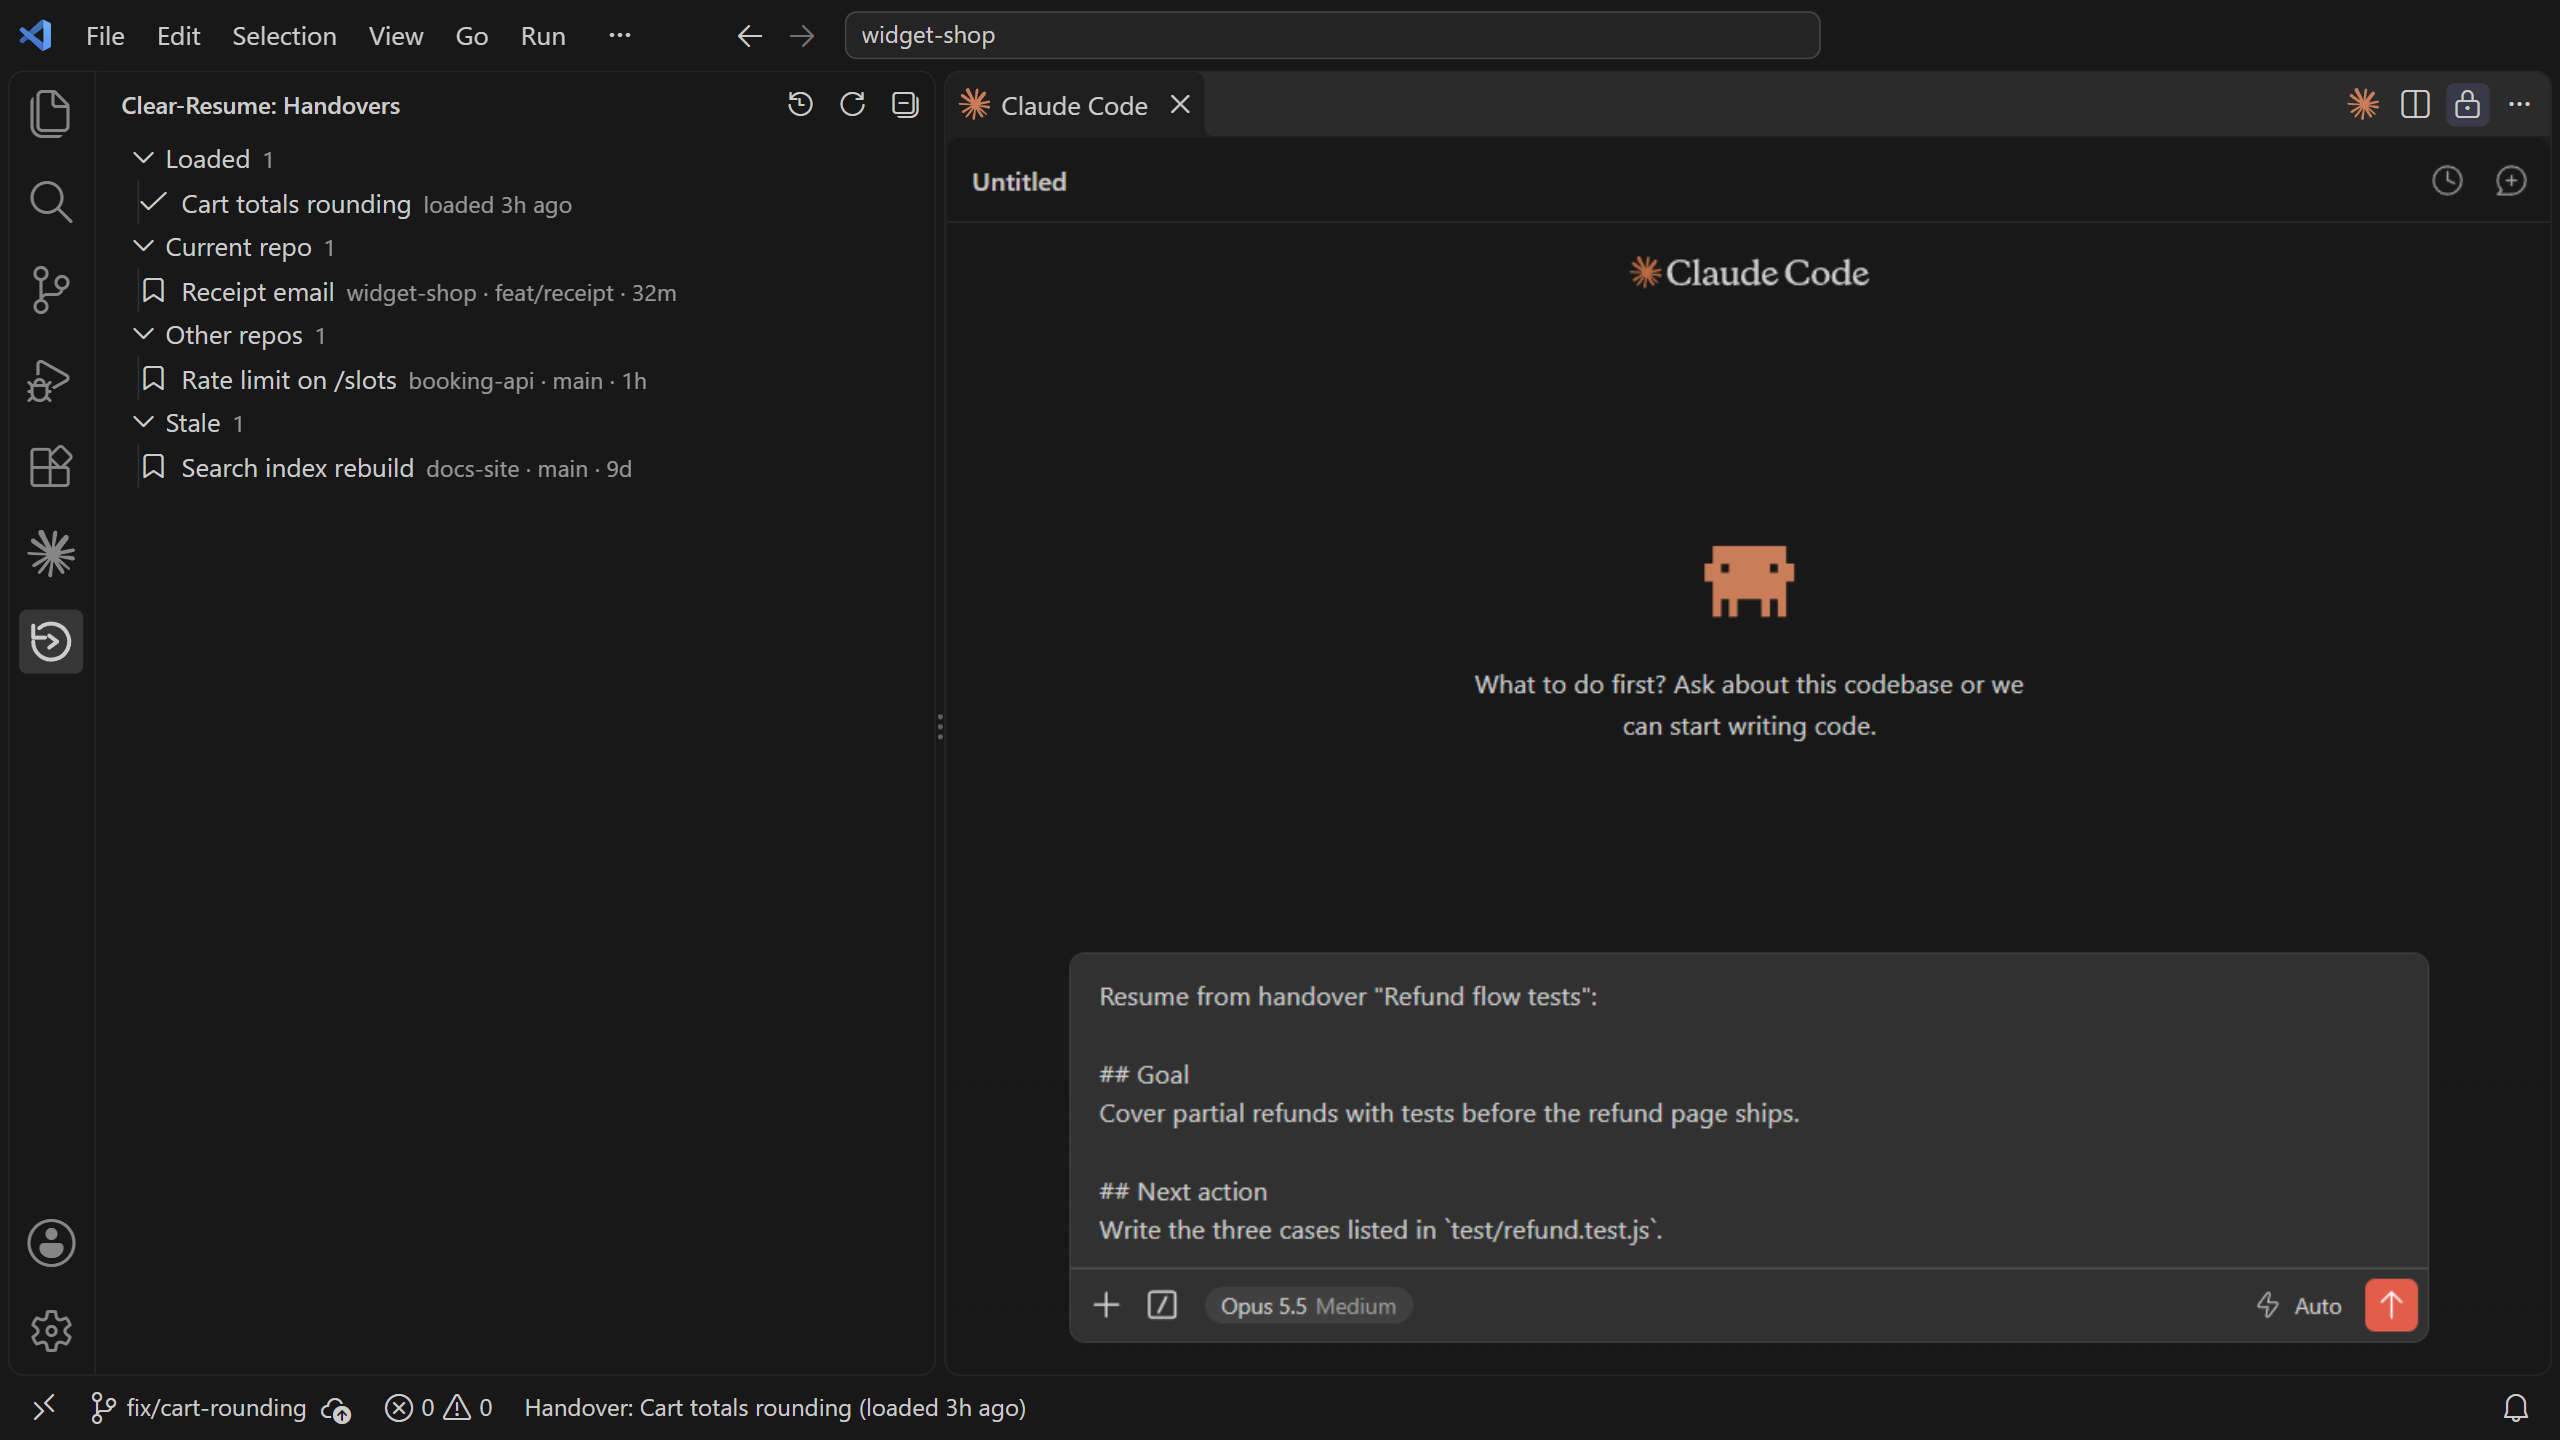
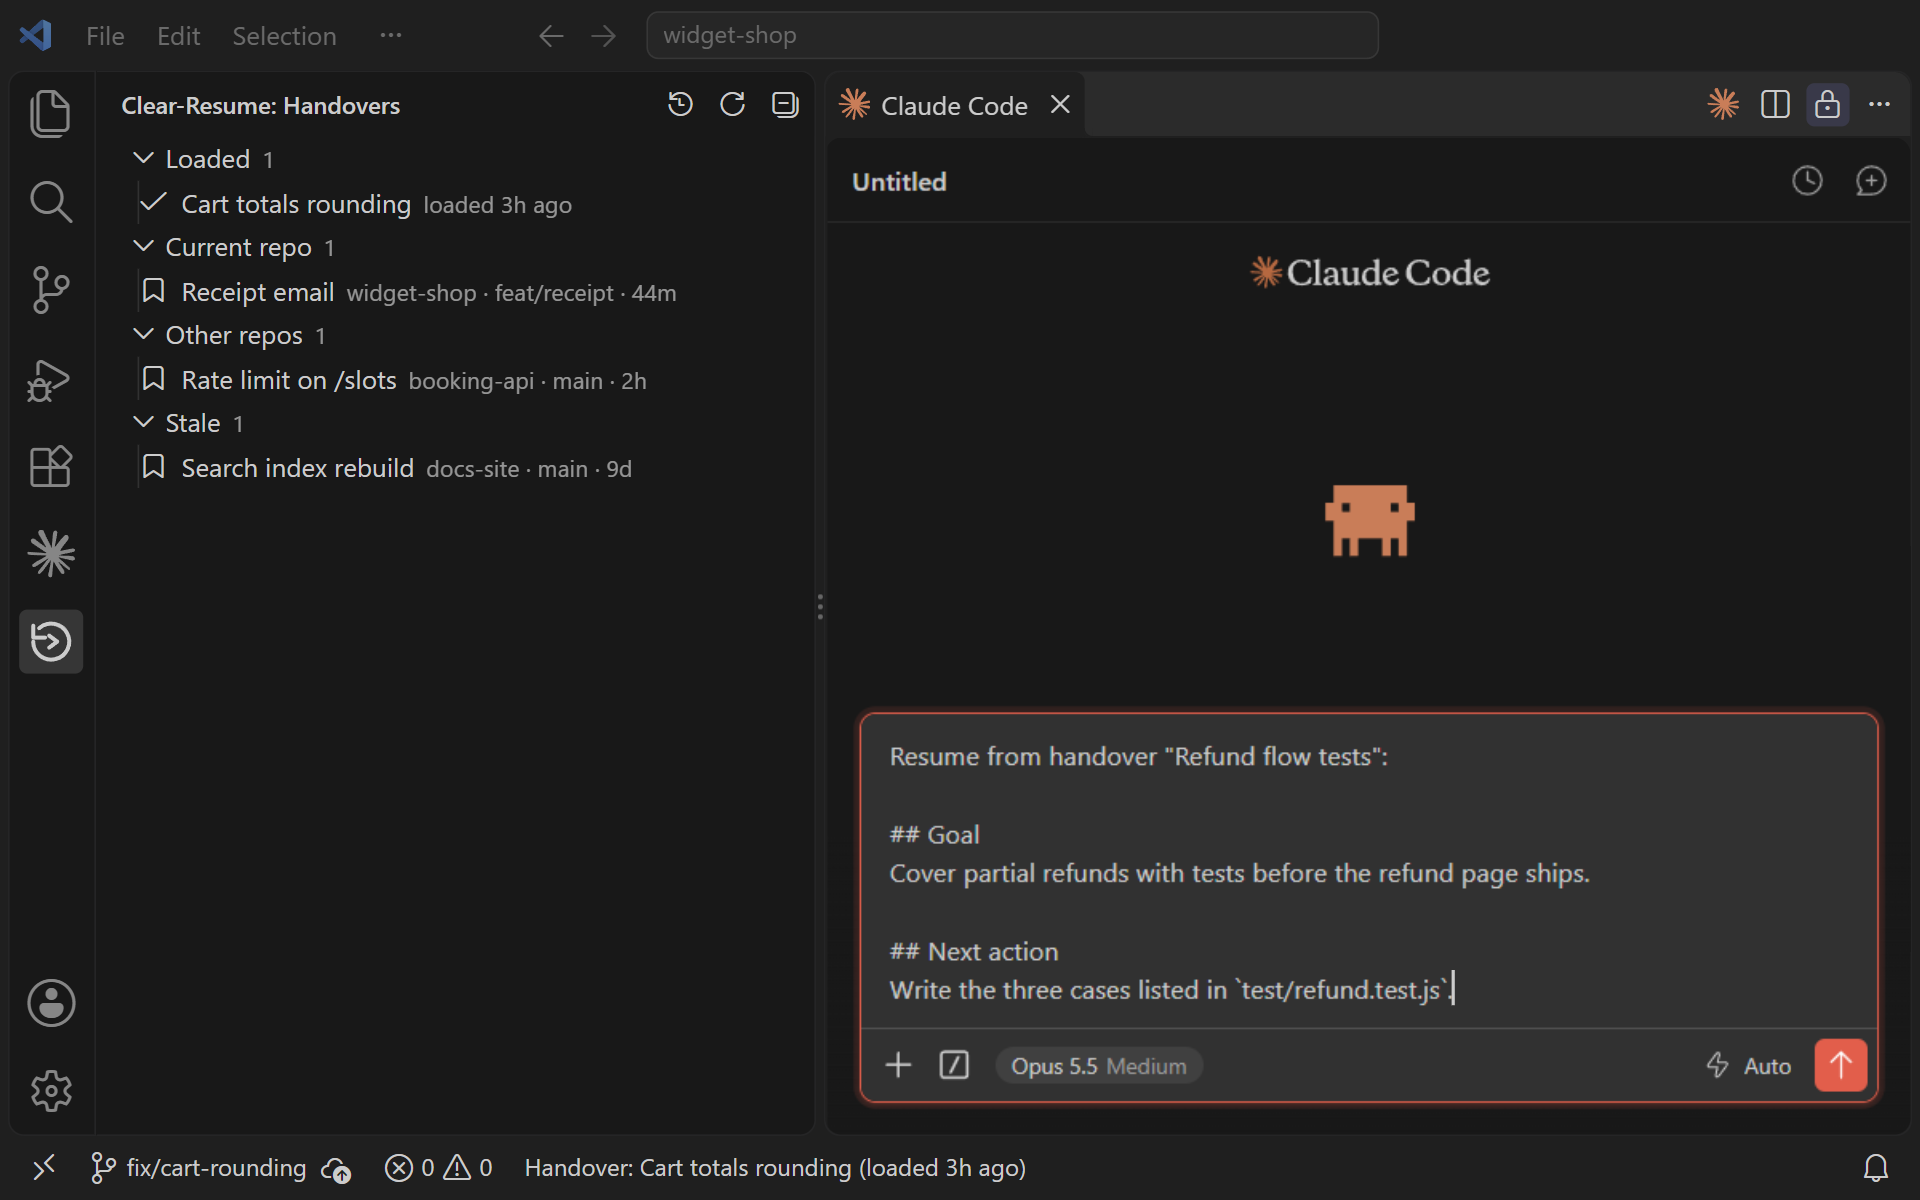
docs(media): recapture the extension screenshots at 960px so the text reads at README width

diff --git a/README.md b/README.md
@@ -154,7 +154,7 @@ These are the common cases. After compaction, only this window's own handover lo
 ## Optional: a VS Code sidebar and a nudge when the chat gets long
 
 <p align="center">
-  <img src="docs/media/extension-sidebar.png" alt="VS Code on widget-shop with the clear-resume sidebar open. Loaded: Cart totals rounding, loaded 3h ago. Current repo: Receipt email and Refund flow tests. Other repos: Rate limit on /slots. Stale: Search index rebuild. The loaded handover's readable copy is open in the editor, and the status bar reads: Handover: Cart totals rounding (loaded 3h ago).">
+  <img src="docs/media/extension-sidebar.png" alt="VS Code on widget-shop with the clear-resume sidebar open. Loaded: Cart totals rounding, loaded 3h ago. Current repo: Receipt email. Other repos: Rate limit on /slots. Stale: Search index rebuild. The loaded handover's readable copy is open in the editor, and the status bar reads: Handover: Cart totals rounding (loaded 3h ago).">
 </p>
 
 **The VS Code sidebar** is a separate extension that needs the plugin. It lists your handovers by repo, with the ones loaded in the last 24 hours at the top. The status bar names the handover this workspace loaded; click it to open the copy. **Resume** opens a Claude Code tab with the handover already typed into the prompt box, not yet sent.
